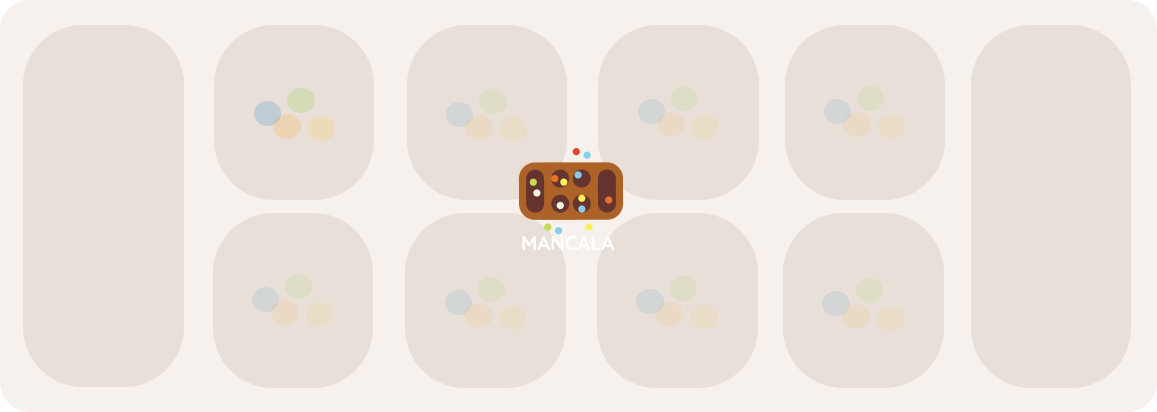
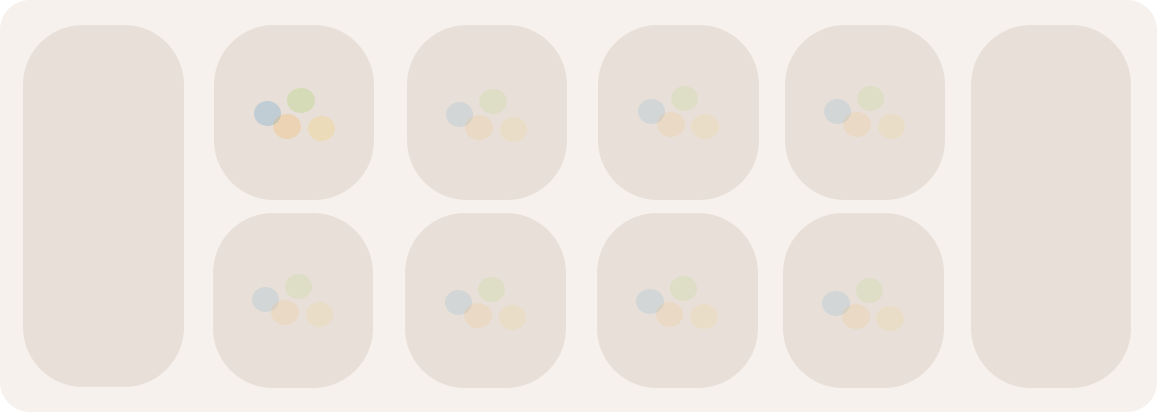
Canvas stuff

Changed region(s): [[0.4356, 0.3495, 0.5601, 0.6117]]

diff --git a/client/scripts/utils.js b/client/scripts/utils.js
@@ -78,7 +78,6 @@ function createWinnerPopUp() {
 
   let text = document.createElement('span');
   text.className = 'winner-text';
-  text.innerText = 'Congratulations cenas!! You are the winner';
 
   let recordsBtn = document.createElement('button');
   recordsBtn.id = 'winner-records';
@@ -135,36 +134,40 @@ function showWaitingPopUp() {
   document.querySelector('.waiting').style.display = '';
 }
 
-
-
-var c = document.getElementById('progressBar');
-var cx = c.getContext('2d');
-var counter = 0, loop;
-
-//1 minuto -> 36
-function timeBar() {
-  counter = 0;
-  timer(28, document.querySelector('#download-text'));
-  incrementTimeBar();
+function timeBar(seconds) {
+  var c = document.querySelector('#progressBar');
+  var cx = c.getContext('2d');
+  var counter = 0;
+  var add = c.width/(seconds*(2**4));
+  timer(seconds - 1, document.querySelector('#download-text'));
+  incrementTimeBar(add, counter, c, cx);
 }
 
-function incrementTimeBar() {
-  counter++;
-  var percentage = (counter / 18); //variavel que muda o tempo, não consigo passa-la por argumento que somehow muda-se
+function incrementTimeBar(add, counter, c, cx) {
 
-  cx.fillStyle = '#9B7957';
-  cx.fillRect(0, 0, c.width * percentage / 100, c.height);
+  var interval = setInterval(function () {
+    counter += add;
 
-  if (percentage  > 100) {
-    cancelAnimationFrame(loop);
-  } 
-  else {
-    loop = requestAnimationFrame(incrementTimeBar);
-  }
+    cx.fillStyle = '#9B7957';
+    cx.fillRect(0, 0, counter, c.height);
+
+    if (counter == c.width) clearInterval(interval);
+  }, 1000/(2**4));
 }
+
 
 function timer(duration, display) {
   var timer = duration, minutes, seconds;
+
+  minutes = parseInt(timer / 60, 10);
+  seconds = parseInt(timer % 60, 10);
+
+  minutes = minutes < 10 ? "0" + minutes : minutes;
+  seconds = seconds < 10 ? "0" + seconds : seconds;
+
+  display.innerText = minutes + ":" + seconds;
+
+  timer = duration - 1;
   var interval = setInterval(function () {
       minutes = parseInt(timer / 60, 10);
       seconds = parseInt(timer % 60, 10);
@@ -172,10 +175,53 @@ function timer(duration, display) {
       minutes = minutes < 10 ? "0" + minutes : minutes;
       seconds = seconds < 10 ? "0" + seconds : seconds;
 
-      display.textContent = minutes + ":" + seconds;
+      display.innerText = minutes + ":" + seconds;
 
-      if (--timer < 0) {
-        clearInterval(interval);
-      }
+      if (--timer < 0) clearInterval(interval);
   }, 1000);
 }
+
+
+
+
+//deixar estar aqui para uns testes
+
+// function drawImage(img,x,y,r,sx,sy, cx){
+//   sx=sx||0;
+//   sy=sy||0;
+//   r=(r*Math.PI/180)||0;
+//   var cr = Math.cos(r);
+//   var sr = Math.sin(r);
+//   cx.setTransform(cr,sr,-sr,cr,x-(cr*sx-sr*sy),y-(sr*sx+cr*sy)); 
+//   cx.drawImage(img,0,0);
+// }
+
+
+// function render(cx, r, img){
+//   window.requestAnimationFrame(function() {
+//     render(cx, r, img);
+//   });
+//   // requestAnimationFrame(render);
+  
+//   cx.setTransform(1, 0, 0, 1, 0, 0); 
+//   cx.clearRect(0,0,400,400);
+  
+//   drawImage(img,100,100,r++,img.width/2,img.height/2,cx);
+// }
+
+// function canvasSpin() {
+//   var r = 1;
+//   var c = document.getElementById('logoCanvas');
+//   var cx = c.getContext('2d');
+
+//   var img = document.createElement('img');
+//   img.onload = function(){
+//     render(cx, r, img);
+//   }
+//   img.src = "assets/mancala.png";
+//   console.log(img.style.width)
+//   img.style.width = "1px";
+//   i.disable;
+// }
+
+// canvasSpin();

diff --git a/client/index.html b/client/index.html
@@ -17,6 +17,7 @@
     <link href="styles/settings.css" rel="stylesheet" />
     <link href="styles/default.css" rel="stylesheet" />
     <link href="styles/winner.css" rel="stylesheet" />
+    <link href="assets/mancala.png" rel="icon">
   </head>
 
   <body>
@@ -44,7 +45,13 @@
       <button class="menu-btn" id="settings-btn">SETTINGS</button>
     </div>
 
-    <div class="default-panel"></div>
+    <div class="default-panel">
+      <div class="deafult-panel-logo">
+        <!-- <canvas style="background-color:GREEN;" id='logoCanvas'></canvas> -->
+        <img class="rotate" src="assets/mancala.png">
+        <span>MANCALA</span>
+      </div>
+    </div>
 
     <div class="settings-panel hide-panel" id="settings-panel">
       <form class="card player-card levels-hide" id="player-card-1">
@@ -104,8 +111,8 @@
         <section id="score-1">0</section>
       </div>
       <div class="info" id="info">
-        <canvas id="progressBar hide-panel"></canvas>
         <div id="download-text hide-panel"></div>
+        <canvas id="progressBar hide-panel"></canvas>
       </div>
       <div class="score">
         <section id="score-2">0</section>

diff --git a/client/styles/default.css b/client/styles/default.css
@@ -11,6 +11,31 @@
   background-size: 100% 100%;
 }
 
+.logoCanvas .logo {
+  width: 100%;
+  height: inherit;
+}
+
+.deafult-panel-logo .rotate{
+  width: 17vh;
+  height: inherit;
+  position: unset;
+}
+
+
+.deafult-panel-logo {
+  display: flex;
+  flex-flow: column;
+  align-items: center;
+}
+
+.deafult-panel-logo span {
+  text-align: center;
+  color: white;
+  font-weight: bold;
+  font-size: larger;
+}
+
 .hide-panel {
   display: none;
 }
@@ -25,4 +50,9 @@
   .default-panel {
     width: 95vw;
   }
+}
+
+canvas {
+  justify-content: center;
+  align-items: center;
 }
